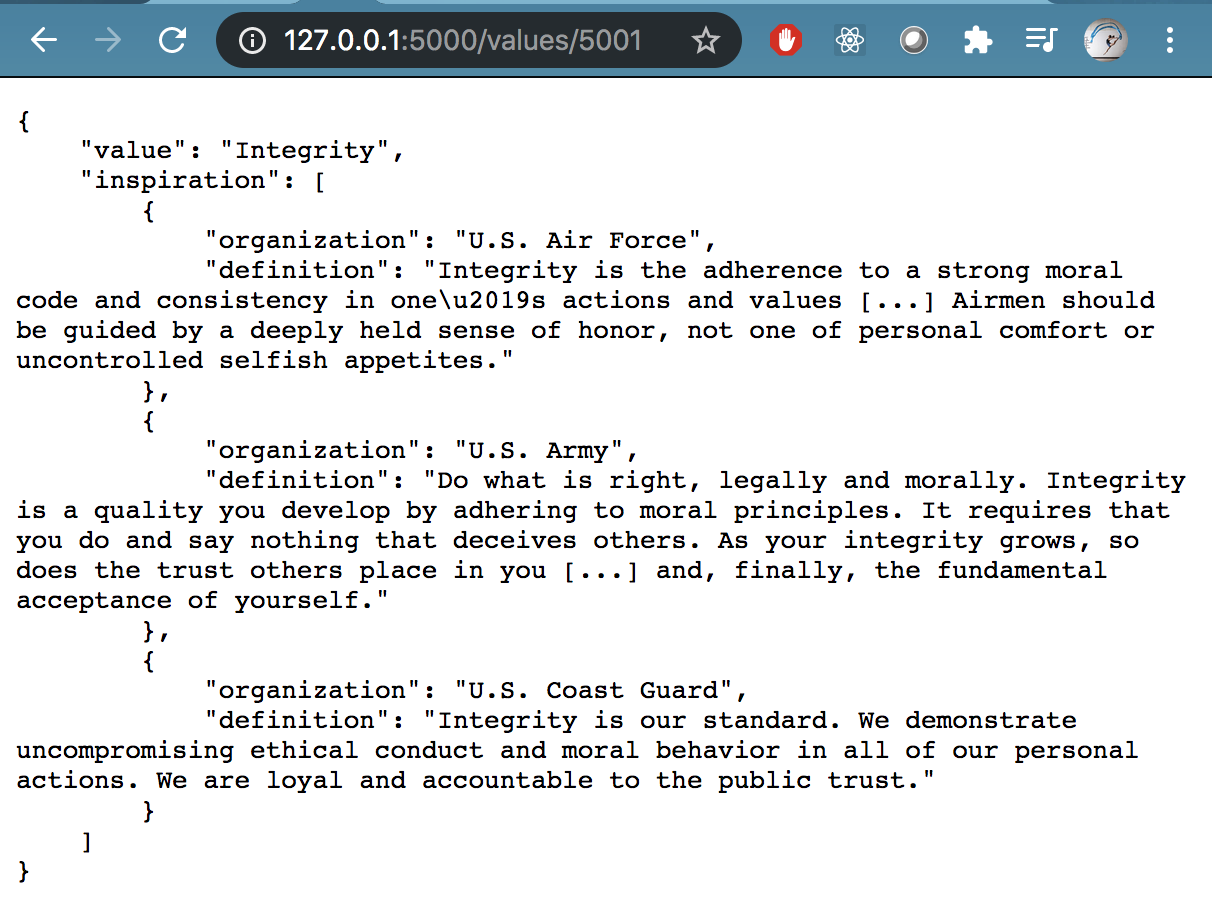
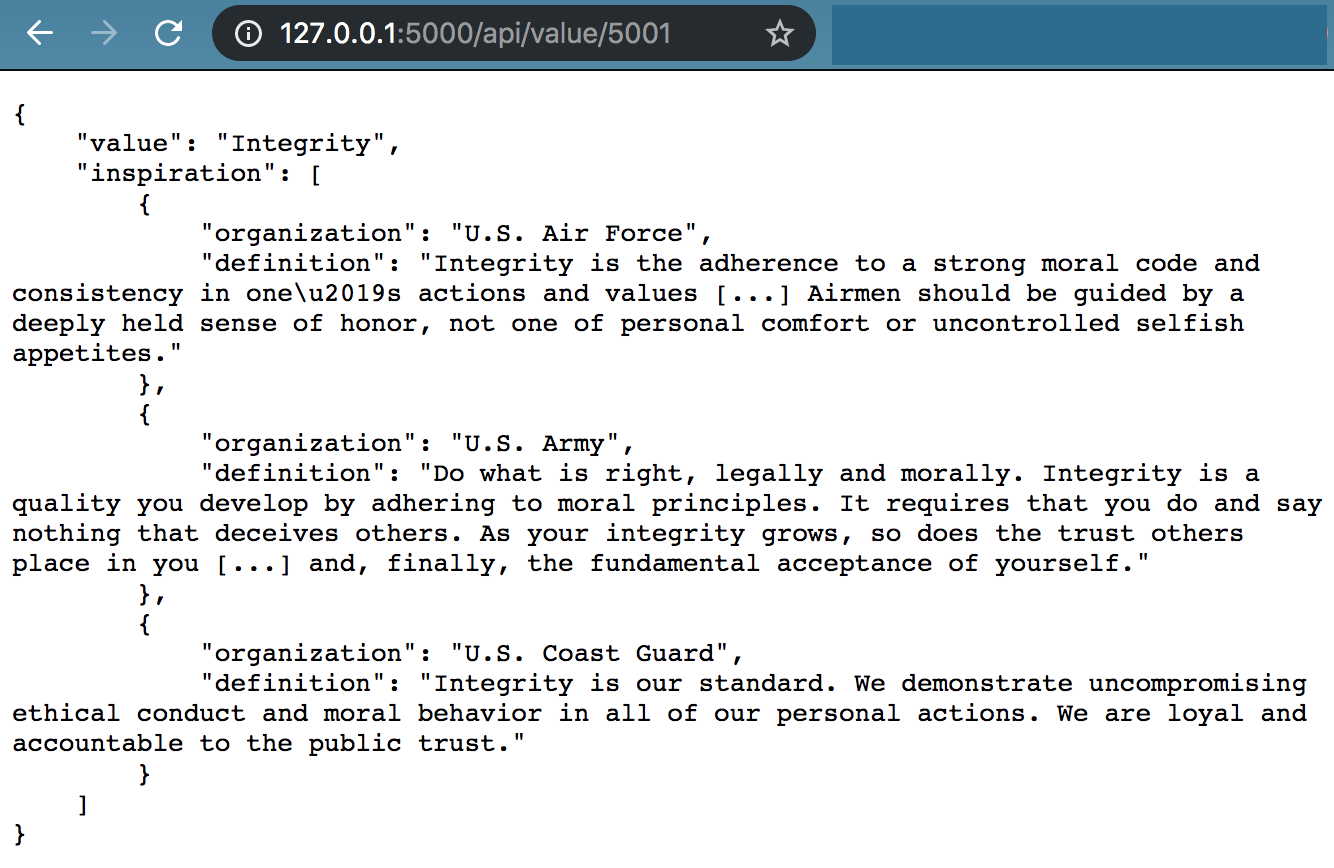
/values/<id> route -> /api/value/<id> route

diff --git a/tests/test_toynet.py b/tests/test_toynet.py
@@ -25,10 +25,11 @@ def test_hello_reclass(client):
     rv = client.get('/')
     assert b'Hello, Reclass!' in rv.data
 
-def test_value_get(client):
+def test_valueById_get(client):
     """Check the app is running"""
 
-    rv = client.get('/values/5004')
+    rv = client.get('/api/value/5004')
+    assert rv.status_code == 200
     rv_json = json.loads(rv.data.decode('utf-8'))
 
     assert rv_json['value'] == 'Loyalty'
@@ -38,3 +39,8 @@ def test_value_get(client):
     assert inspiration['organization'] == 'U.S. Army'
     assert inspiration['definition'][:21] == 'Bear true faith and a'
     assert inspiration['definition'][-21:] == 'loyalty to your unit.'
+
+    rv = client.get('/api/value/1')
+    assert rv.status_code == 404
+    rv_json = json.loads(rv.data.decode('utf-8'))
+    assert rv_json['message'] == 'value ID 1 does not exist'

diff --git a/flasksrc/value.py b/flasksrc/value.py
@@ -3,7 +3,7 @@ from flask_restful import Resource, Api, abort
 
 from flasksrc.db import get_db
 
-class ToyNetValue(Resource):
+class ToyNetValueById(Resource):
     def get(self, value_id):
         db = get_db()
         error = None
@@ -16,7 +16,7 @@ class ToyNetValue(Resource):
         ).fetchall()
 
         if not len(rows):
-            abort(404, message="value {} doesn't exist".format(value_id))
+            abort(404, message="value ID {} does not exist".format(value_id))
 
         return {
             'value': rows[0]['name'],

diff --git a/flasksrc/__init__.py b/flasksrc/__init__.py
@@ -37,8 +37,8 @@ def create_app(test_config=None):
     api = Api(app)
     api.add_resource(HelloReclass, '/')
 
-    from .value import ToyNetValue
-    api.add_resource(ToyNetValue, '/values/<string:value_id>')
+    from .value import ToyNetValueById
+    api.add_resource(ToyNetValueById, '/api/value/<string:value_id>')
 
     from .quiz import ToyNetQuiz
     api.add_resource(ToyNetQuiz, '/quiz/<string:quiz_id>')

diff --git a/README.md b/README.md
@@ -93,12 +93,12 @@ Windows PowerShell:
 Go to: `http://127.0.0.1:5000/`
 <br/><img src="documentation/images/hello-reclass.png" width="300" /><br/>
 
-Go to: `http://127.0.0.1:5000/values/5001`
+Go to: `http://127.0.0.1:5000/api/value/5001`
 <br/><img src="documentation/images/values-goodID.png" width="600" /><br/>
 Open Network tab of Chrome DevTools (right click screen & click "Inspect")
 <br/><img src="documentation/images/values-goodID-200.png" width="500" /><br/>
 
-Go to: `http://127.0.0.1:5000/values/1`
+Go to: `http://127.0.0.1:5000/api/value/1`
 <br/><img src="documentation/images/values-badID.png" width="350" /><br/>
 Open Network tab of Chrome DevTools (right click screen & click "Inspect")
 <br/><img src="documentation/images/values-badID-404.png" width="500" /><br/>
